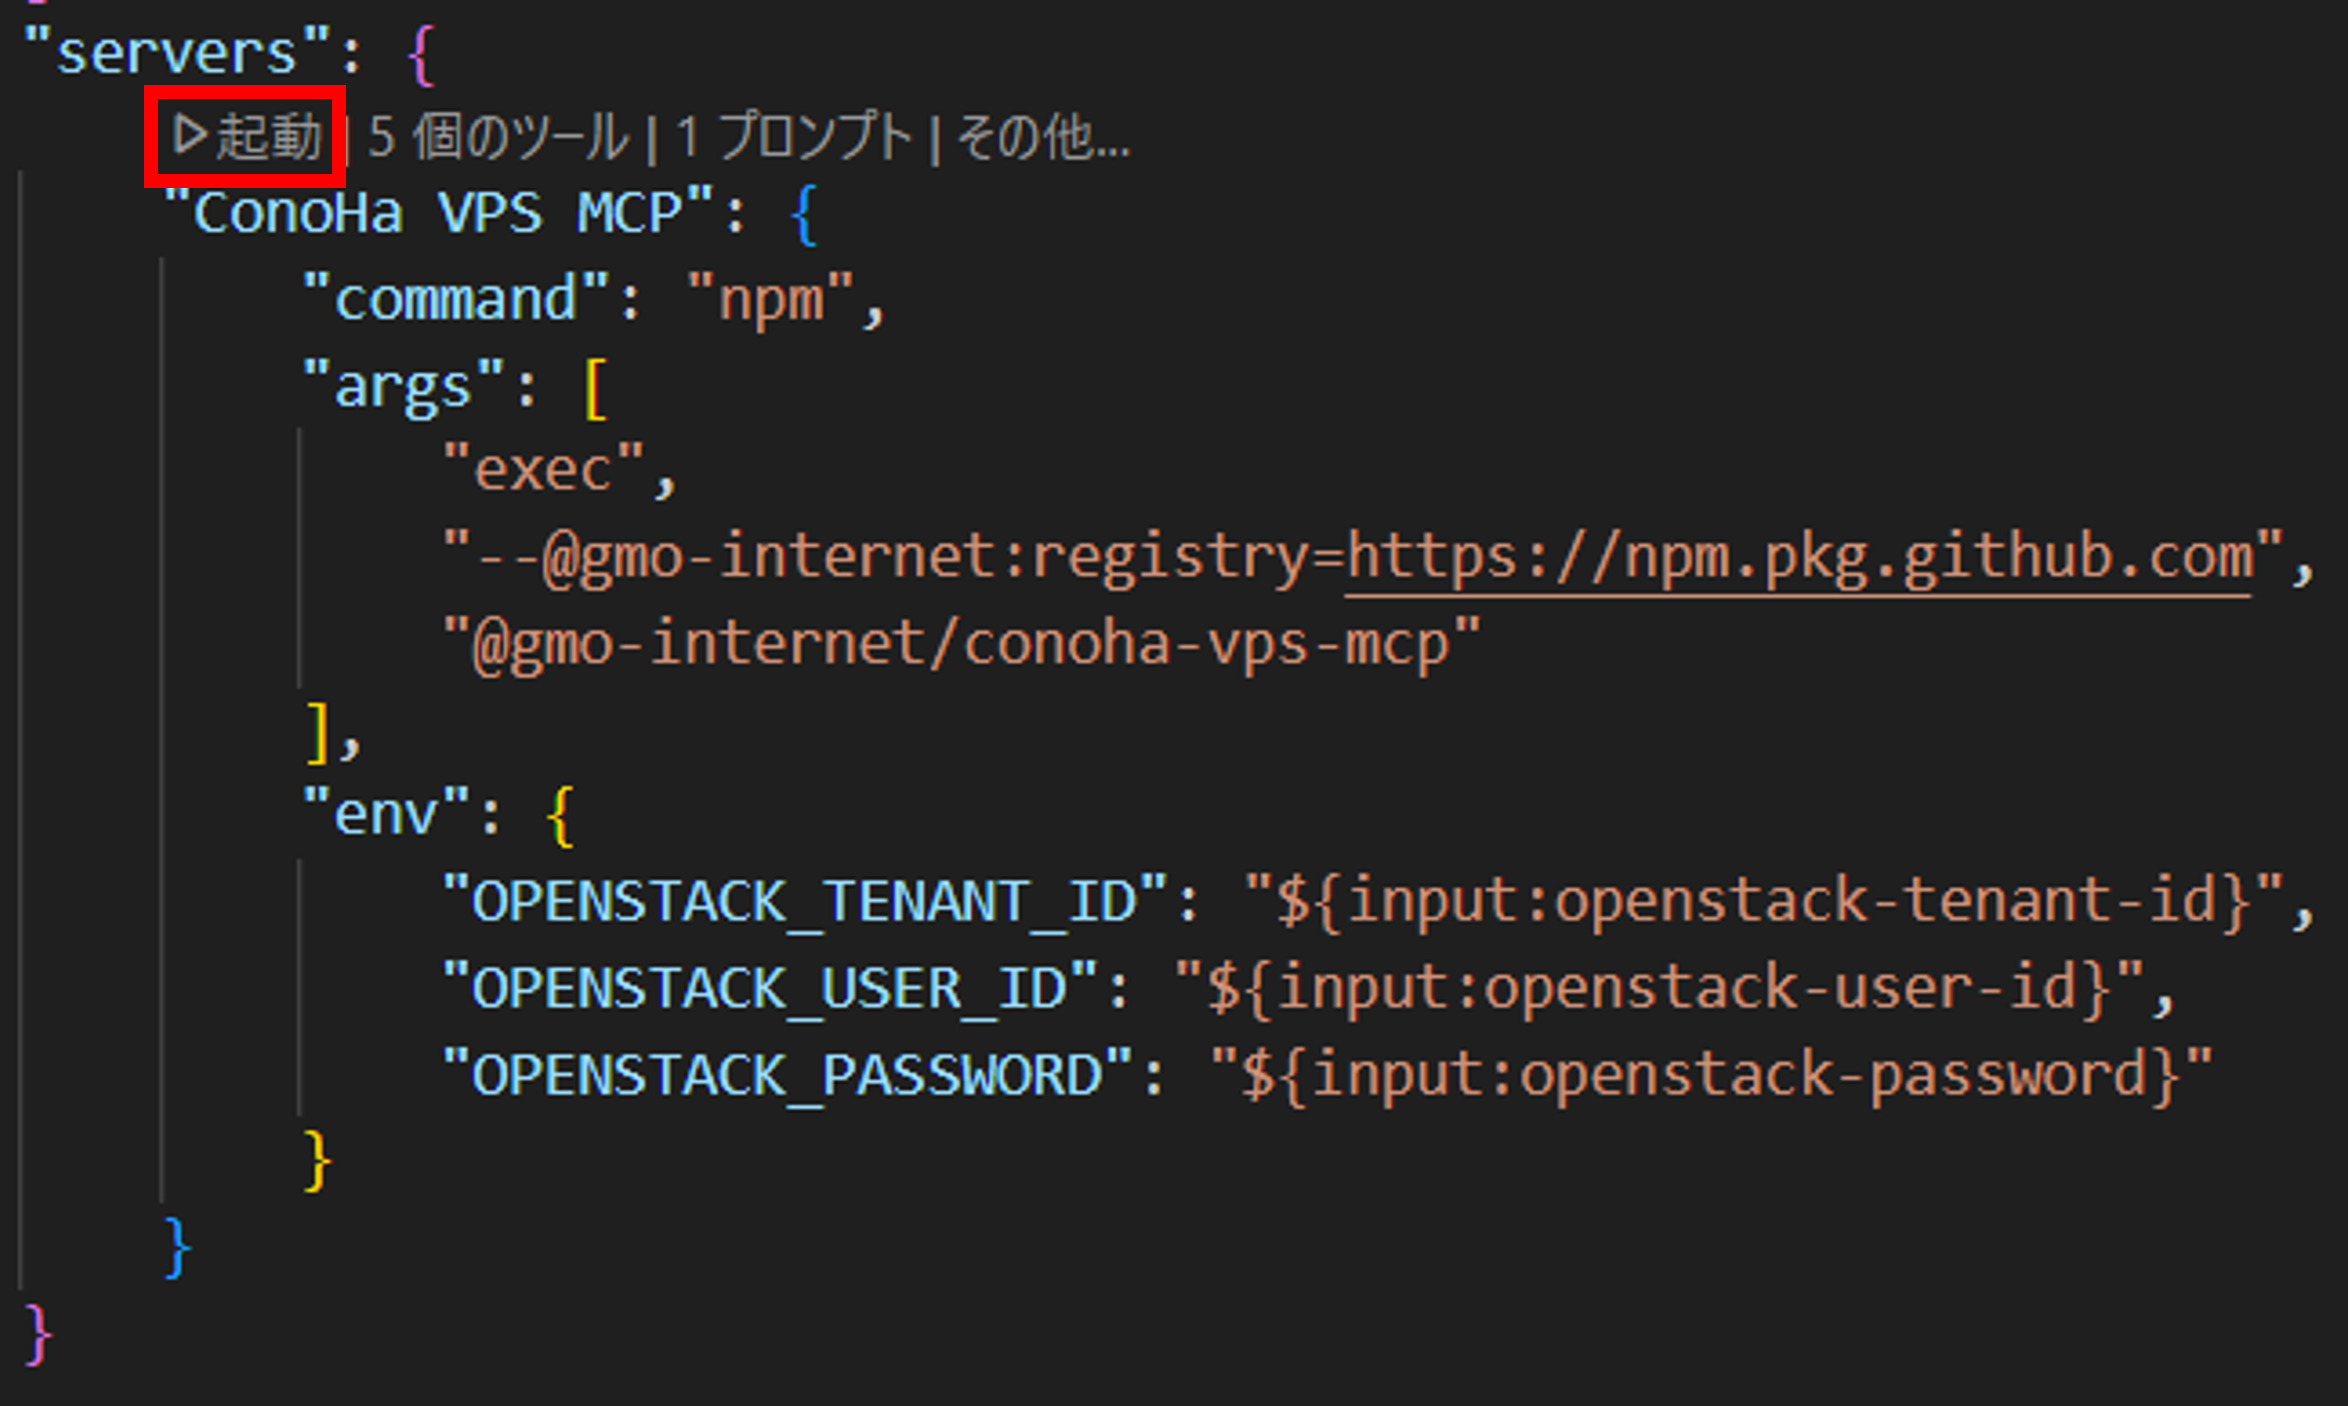
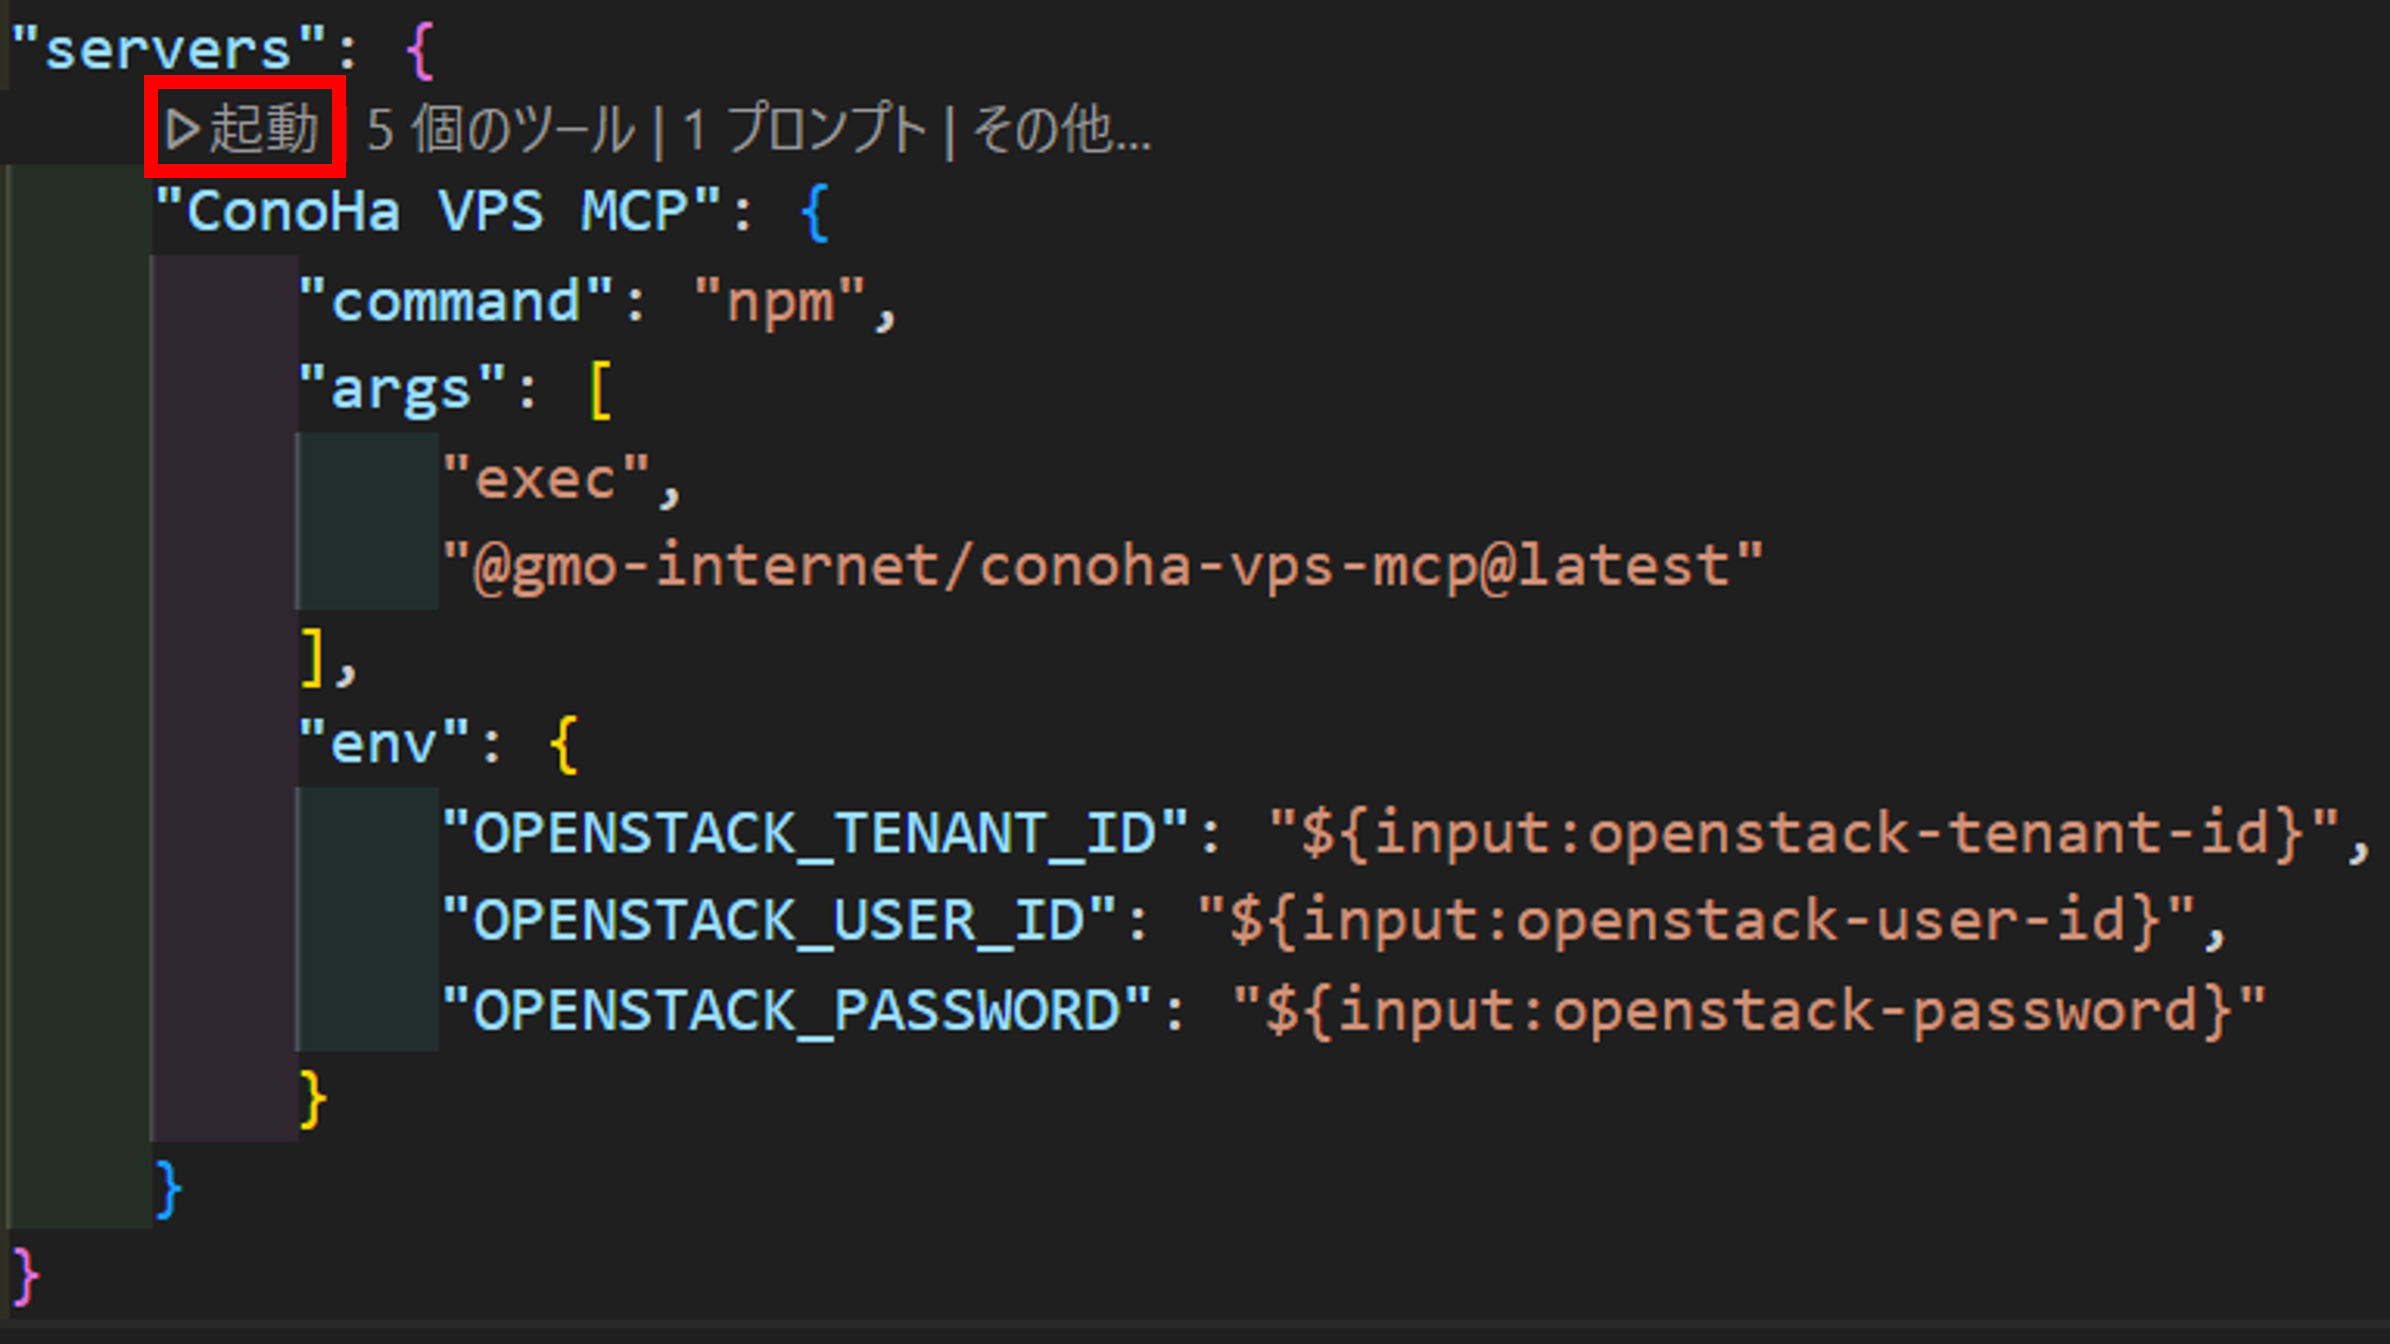
docs: update docs for npm registry

diff --git a/docs/npm-setup.md b/docs/npm-setup.md
@@ -5,7 +5,6 @@
 - [npm パッケージインストール版実行ガイド](#npm-パッケージインストール版実行ガイド)
   - [目次](#目次)
   - [前提条件](#前提条件)
-    - [.npmrcファイルへのPATの登録手順](#npmrcファイルへのpatの登録手順)
   - [AIエージェント別実行方法](#aiエージェント別実行方法)
     - [GitHub Copilot (VSCode)](#github-copilot-vscode)
       - [1. 設定の追加](#1-設定の追加)
@@ -17,20 +16,18 @@
       - [2. Clineの設定の追加](#2-clineの設定の追加)
       - [3. 設定値の確認](#3-設定値の確認)
       - [4. ツールの使用](#4-ツールの使用-1)
-    - [Claude Desktop](#claude-desktop)
-      - [1. Claude Desktopの設定の追加](#1-claude-desktopの設定の追加)
-      - [2. 設定値の確認](#2-設定値の確認-1)
-      - [3. ツールの使用](#3-ツールの使用)
   - [トラブルシューティング](#トラブルシューティング)
     - [よくある問題](#よくある問題)
 
-このドキュメントでは、ローカル環境にコードのクローンやビルドをすることなくConoHa VPS MCPを実行する方法を説明します。
+このドキュメントでは、**npm パッケージ**によりConoHa VPS MCPを実行する方法を説明します。
+
+> [!Caution]
+> GitHub Packages から npm registry へ移行しました。以前からご利用の方は .npmrc ファイルの設定にご注意ください。
+
 
 ## 前提条件
 
-1. **Node.js v18以上**・**npm v7 以上**（Node.jsに付属）のインストール
-2. **GitHubのPersonal Access Token**（以下PAT）の発行
-3. **.npmrcファイル**へPATの登録
+**Node.js v18以上**・**npm v7 以上**（Node.jsに付属）のインストール
 
 <details>
 <summary>Node.jsのインストール手順（Windows向け）</summary>
@@ -68,42 +65,6 @@
 10.  インストールが完了したらFinishを押します
 
 </details>
-
-<details>
-<summary>GitHubのPersonal Access Tokenの発行手順</summary>
-
-1. [GitHubのダッシュボード画面](https://github.com/dashboard)の右上にあるアイコン画像をクリックします
-![画面右上のアイコン画像をクリック](../assets/github_click_icon.png)
-1. アイコン画像をクリックして表示されたメニュー中にある`Settings`をクリックします
-![展開されたメニューの中にあるSettingsをクリック](../assets/github_click_settings.png)
-
-1. settings画面の左側のサイドメニューの最下部にある`Developer settings`をクリックします
-   ![developer settingsは最下部にあるため、スクロールして見つけます](../assets/github_scroll_settings.png)
-
-   ![developer settingsをクリック](../assets/github_click_developer_settings.png)
-2. Developer settings画面の左側サイドメニュー中にある`Personal access tokens`をクリックして展開されたメニューから、`Tokens (Classic)`をクリックします
-![左側サイドメニューのPersonal access tokensをクリック](../assets/github_click_pat.png)
-1. `Generate new token (classic)`をクリックして、トークン生成画面にアクセスします
-![classicの方をクリック](../assets/github_click_generate_new_token_classic.png)
-1. 必要事項を入力して、最後にページ下部にある`Generate token`ボタンをクリックしてトークンの生成を完了させます
-   1. `read:packages`の権限を付与してください  
-   
-   ![Note, Expiration, read:packagesは必須です](../assets/github_setup_pat_info.png)
-2. 以下のようにトークン値が生成されていれば完了です
-![トークン値が表示されています](../assets/github_generated_token.png)
-> [!CAUTION]
-> トークン値は一度しか表示されないので、必ず安全なところにメモしておくようにしてください。
-
-</details>
-
-### .npmrcファイルへのPATの登録手順
-
-任意のディレクトリで以下のコマンドを実行して、.npmrcファイルを生成してください  
-`ghp_xxxYourTokenxxx`にはGitHub上で発行したPATの値を入力してください
-
-```bash
-npm config set //npm.pkg.github.com/:_authToken=ghp_xxxYourTokenxxx
-```
 
 ## AIエージェント別実行方法
 
@@ -151,7 +112,6 @@ npm config set //npm.pkg.github.com/:_authToken=ghp_xxxYourTokenxxx
         "command": "npm",
         "args": [
           "exec",
-          "--@gmo-internet:registry=https://npm.pkg.github.com",
           "@gmo-internet/conoha-vps-mcp@latest"
         ],
         "env": {
@@ -242,7 +202,6 @@ OPENSTACK_PASSWORD: APIユーザーのパスワード
       "command": "npm",
       "args": [
         "exec",
-        "--@gmo-internet:registry=https://npm.pkg.github.com",
         "@gmo-internet/conoha-vps-mcp@latest"
       ],
       "env": {
@@ -279,74 +238,13 @@ OPENSTACK_PASSWORD: APIユーザーのパスワード
 
 </details>
 
-### Claude Desktop
-
-<details>
-<summary>セットアップ手順</summary>
-
-#### 1. Claude Desktopの設定の追加
-
-1. メニューバーから **[ファイル]** → **[設定]** を開きます
-
-   ![Claude Desktopの設定を開く](../assets/claude_desktop_setting.png)
-
-2. 左側のメニューから **[開発者]** タブを選択します
-
-   ![開発者タブ](../assets/claude_desktop_setting_config.png)
-
-3. **[構成を編集]** をクリックします
-
-4. `claude_desktop_config.json`を開き、以下の設定を追加します：
-
-```json
-{
-  "mcpServers": {
-    "ConoHa VPS MCP": {
-      "command": "npm",
-      "args": [
-        "exec",
-        "--@gmo-internet:registry=https://npm.pkg.github.com",
-        "@gmo-internet/conoha-vps-mcp@latest"
-      ],
-      "env": {
-        "OPENSTACK_TENANT_ID": "YOUR_OPENSTACK_TENANT_ID", // ここにテナントIDを入力
-        "OPENSTACK_USER_ID": "YOUR_OPENSTACK_USER_ID", // ここにユーザーIDを入力
-        "OPENSTACK_PASSWORD": "YOUR_OPENSTACK_PASSWORD" // ここにパスワードを入力
-      }
-    }
-  }
-}
-```
-
-#### 2. 設定値の確認
-
-- 環境変数の設定値：
-
-```txt
-OPENSTACK_TENANT_ID: テナントID
-OPENSTACK_USER_ID: APIユーザーのユーザーID
-OPENSTACK_PASSWORD: APIユーザーのパスワード
-```
-
-各値はConoHaコントロールパネルのAPI設定で確認できます。
-
-![ConoHa APIユーザー情報](../assets/conoha_api_info.png)
-
-#### 3. ツールの使用
-
-プロンプトを入力して操作を実行します
-
-   [サンプルプロンプト](../README.md#-使用例)
-
-</details>
-
 ## トラブルシューティング
 
 ### よくある問題
 
 - **認証エラー**: 環境変数の値が正しく設定されているか確認してください
 - **Node.jsバージョンエラー**: Node.js v18以上がインストールされているか確認してください
-- **起動エラー**: `"--@gmo-internet:registry=..."` の記述ミスや、`@gmo-internet/conoha-vps-mcp@latest` のパッケージ名が正しいかを確認してください
+- **起動エラー**: `@gmo-internet/conoha-vps-mcp@latest` のパッケージ名が正しいかを確認してください
 - **パッケージ取得エラー**: `npm exec`の初回実行時にパッケージのダウンロードに時間がかかる場合があります
 - その他FAQは[こちら](FAQ.md)
 

diff --git a/docs/mcpb-setup.md b/docs/mcpb-setup.md
@@ -1,8 +1,8 @@
-# 簡単実行ガイド
+# mcpb ファイルインストール版実行ガイド
 
 ## 目次
 
-- [簡単実行ガイド](#簡単実行ガイド)
+- [mcpb ファイルインストール版実行ガイド](#mcpb-ファイルインストール版実行ガイド)
   - [目次](#目次)
   - [前提条件](#前提条件)
   - [セットアップ手順](#セットアップ手順)
@@ -11,7 +11,7 @@
     - [環境変数の設定](#環境変数の設定)
     - [ツールの使用](#ツールの使用)
 
-このドキュメントでは、ConoHa VPS MCP をローカル環境にコードのクローンやビルドをすることなく、**簡単に**MCPサーバーをインストールして実行する方法を説明します。
+このドキュメントでは、**mcpb ファイル**によりMCPサーバーをインストールして実行する方法を説明します。
 
 ## 前提条件
 

diff --git a/docs/FAQ.md b/docs/FAQ.md
@@ -134,7 +134,6 @@ A: 以下を確認してください：
 
 - Dockerが正常に動作しているか
 - WSLが有効になっているか（Windows環境の場合）
-- `compose.yaml`が存在するか
 
 ### Q: GitHub Copilot (VSCode) 上でツールを実行しようとするとやりとりが止まってしまいます
 
